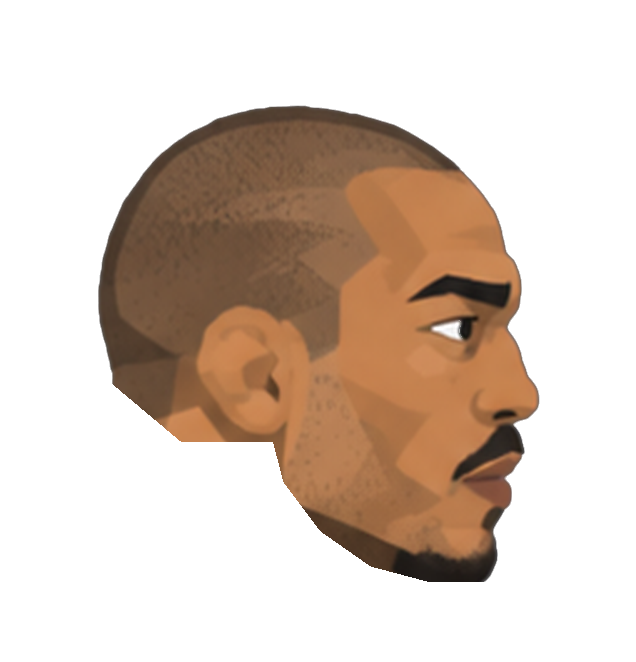
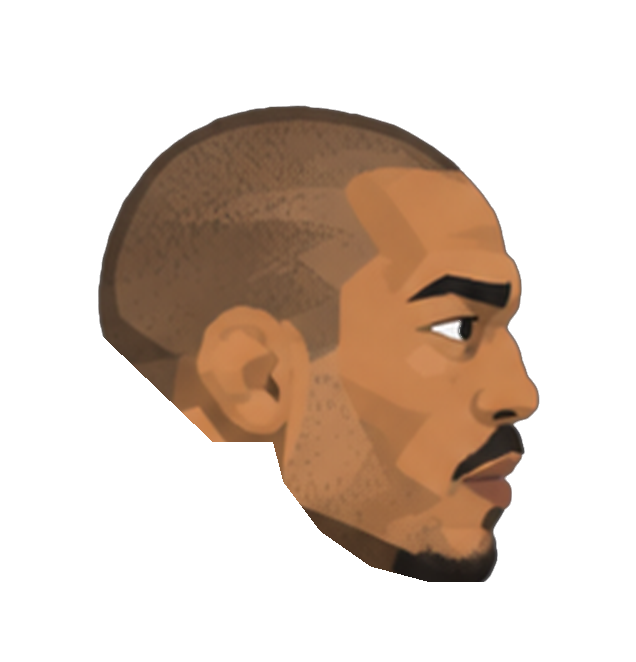
Referee and coaches use the fighter head+nape-bridge model, nape tab trimmed on all heads, neck region filled
Claude-Session: https://claude.ai/code/session_01BMyqTur5CGsYQhULeeiyXv

Changed region(s): [[0.1494, 0.5136, 0.3286, 0.6647]]

diff --git a/cage/src/Cutout.js b/cage/src/Cutout.js
@@ -12,7 +12,7 @@ const CO=window.CUTOUT={on:!/[?&]cutout=0/.test(location.search),sets:{}};
 const clamp=(v,a,b)=>v<a?a:v>b?b:v;
 /* faces for the referee and the coaches (character sheet): rigid head + neck down to the collar */
 const REFS={ref:[['ref1','#e9b28b'],['ref2','#7a5236'],['ref3','#d9a07a'],['ref4','#dca883']],coach:[['coach3','#8a5a3c'],['coach5','#e0b090'],['coach7','#e3a982']]};
-CO.pickRef=(lk,kind,idx)=>{const L=REFS[kind];if(!L)return;const c=L[idx!=null?idx%L.length:Math.floor(Math.random()*L.length)];lk.cutout=c[0];lk.skin=c[1];lk.headK=.126;lk.headDown=-.005};
+CO.pickRef=(lk,kind,idx)=>{const L=REFS[kind];if(!L)return;const c=L[idx!=null?idx%L.length:Math.floor(Math.random()*L.length)];lk.cutout=c[0];lk.skin=c[1];lk.headK=.132;lk.headDown=-.005};
 for(const k in REFS)REFS[k].forEach(c=>{try{load(c[0])}catch(e){}});
 CO.variants=n=>{const c=CURATED[n];return c&&c.variants||null};CO.getVar=n=>{try{const v=+localStorage.getItem('cl_skin_'+n)||0;const c=CURATED[n];return c&&c.variants&&v<c.variants.length?v:0}catch(e){return 0}};CO.setVar=(n,v)=>{try{localStorage.setItem('cl_skin_'+n,String(v))}catch(e){}};
 const CURATED={'Jon Jones':{cutout:'jones',skin:'#6b4a34',shorts:'#232326',glove:'#17171a',headK:0.138,headDown:-.005},'Anderson Silva':{cutout:'silva',skin:'#8d5c34',shorts:'#1b1b1e',glove:'#17171a',headK:0.138,headDown:-.005},
@@ -24,7 +24,7 @@ function load(name){let S=CO.sets[name];if(S)return S;S=CO.sets[name]={ready:fal
   fetch('assets/cutout/'+name+'/parts.json').then(r=>r.json()).then(m=>{S.meta=m;const im=new Image();im.onload=()=>{S.img=im;S.ready=true};im.src='assets/cutout/'+name+'/'+m.image}).catch(()=>{S.failed=true});
   /* the close-up of the head with neck and shoulder slope (used for the face when present) */
   S.pending=1;fetch('assets/cutout/'+name+'/head2.json').then(r=>r.json()).then(m=>{const base='assets/cutout/'+name+'/',im=new Image(),n=m.neck?new Image():null;const ld=i=>new Promise(res=>{i.onload=()=>{(i.decode?i.decode():Promise.resolve()).then(res,res)};i.onerror=res;});const ps=[ld(im)];im.src=base+m.image;if(n){ps.push(ld(n));n.src=base+m.neck}
-    Promise.all(ps).then(()=>{try{const cv=document.createElement('canvas');cv.width=im.width;cv.height=im.height;const g=cv.getContext('2d');g.drawImage(im,0,0);const D=g.getImageData(0,0,cv.width,cv.height).data,W0=cv.width,edge=(y,fromRight)=>{let x=fromRight?W0-1:0;const st=fromRight?-1:1;for(;x>=0&&x<W0;x+=st)if(D[(y*W0+x)*4+3]>90)return x;return -1};const nt=m.neckTop;m.anc={back:[edge(nt-14,0),nt-14],low:[edge(nt+8,0),nt+8],jaw:[edge(nt+44,0),nt+44],jawR:[edge(nt+44,1),nt+44]}}catch(e){}
+    Promise.all(ps).then(()=>{try{const cv=document.createElement('canvas');cv.width=im.width;cv.height=im.height;const g=cv.getContext('2d');g.drawImage(im,0,0);const D=g.getImageData(0,0,cv.width,cv.height).data,W0=cv.width,edge=(y,fromRight)=>{let x=fromRight?W0-1:0;const st=fromRight?-1:1;for(;x>=0&&x<W0;x+=st)if(D[(y*W0+x)*4+3]>90)return x;return -1};const nt=m.neckTop!=null?m.neckTop:Math.round(m.p0[1]+m.headH*.5-60);m.anc={back:[edge(nt-58,0),nt-58],low:[edge(nt+8,0),nt+8],jaw:[edge(nt+44,0),nt+44],jawR:[edge(nt+44,1),nt+44]}}catch(e){}
     /* published only when head AND neck are decoded, so the face never appears piece by piece */const h2={img:im,headH:m.headH,m,meta:{parts:{head2:{x:0,y:0,w:m.w,h:m.h,p0:m.p0,p1:m.p1}}}};if(n)h2.neck=n;S.h2=h2;try{if(window.FACEFX){FACEFX.skinMask(im);FACEFX.layer(im.width,im.height)}}catch(e){}/* warm the caches */S.pending=0;CO.warm=(CO.warm||0)+1})}).catch(()=>{S.pending=0});return S}
 CO.body=false;
 /* the neck as a bending strip: horizontal slices from the skull down to the shoulders, each turned by an angle between the head's and the trunk's, so the back of the neck folds when the head tips forward or back */
@@ -48,7 +48,7 @@ function neck(ctx,S2,hd,nk,B,d,ku,H,skin){const m=S2.m,P=S2.meta.parts.head2,p0=
   if(L.length>2){ctx.fillStyle=skin?shade(skin,-.02):'#6b4a34';ctx.beginPath();L.forEach((q,i)=>i?ctx.lineTo(q.x,q.y):ctx.moveTo(q.x,q.y));R.slice().reverse().forEach(q=>ctx.lineTo(q.x,q.y));ctx.closePath();ctx.fill()}
   for(let i=0;i<N;i++){const ya=y0+i*step,yb=ya+step,yc=(ya+yb)/2,t=(i+.5)/N,sm=t*t*(3-2*t),xc=qb[0];const A=wh(xc,yc),Bt=wt(xc,yc);const px=A.x+(Bt.x-A.x)*sm,py=A.y+(Bt.y-A.y)*sm,al=aH+da*sm;
     const ex=1.5;ctx.save();ctx.translate(px,py);ctx.rotate(al);ctx.scale(mm*ku,-ku);ctx.drawImage(S2.neck,0,ya-ex,W,step+2*ex,-xc,(ya-ex)-yc,W,step+2*ex);ctx.restore()}}
-CO.head=function(ctx,hd,nk,H,B,d){const lk=B.look;if(!CO.on||!lk||!lk.cutout)return false;const S=load(lk.cutout);if(S.h2){/* anchored on the head centre, hanging down along the neck line */ctx.imageSmoothingEnabled=true;ctx.imageSmoothingQuality='high';const hsz=1;/* the head size does not change with the weight class */const ku=H*(lk.headK||.145)*hsz/S.h2.headH;const Lh=Math.hypot(hd.x-nk.x,hd.y-nk.y)||1,dn=H*(lk.headDown!=null?lk.headDown:-.005);const hd2={x:hd.x-(hd.x-nk.x)/Lh*dn,y:hd.y-(hd.y-nk.y)/Lh*dn};/* head a little lower */bridge(ctx,S.h2,hd2,nk,B,d,ku,H,lk.skin);if(S.h2.m.nofx){/* referee / coach: a skin neck joins the rigid head to the shoulders */const a={x:hd2.x+(nk.x-hd2.x)*.35,y:hd2.y+(nk.y-hd2.y)*.35},b={x:nk.x+(nk.x-hd2.x)*.12,y:nk.y+(nk.y-hd2.y)*.12};ctx.save();ctx.strokeStyle=lk.skin;ctx.lineWidth=.062*H;ctx.lineCap='butt';ctx.beginPath();ctx.moveTo(a.x,a.y);ctx.lineTo(b.x,b.y);ctx.stroke();ctx.restore()}put(ctx,S.h2,'head2',hd2,nk,d,ku,1,1,true,c=>{if(!window.FACEFX)return;{const q=S.h2.m.fx;if(S.h2.m.nofx||(q&&q.blinkOnly)){if(q&&q.blinkOnly)FACEFX.lid(c,q.G,FACEFX.blink(B),q.lid);return}}const fx=S.h2.m.fx,G=fx?fx.G:{eye:[395,222],brow:[400,190],brow2:[352,205],nose:[470,268],cheek:[372,292],fore:[360,110],lip:[432,358],u:44,down:1},mo=fx?fx.mouth:[452,352,40,18];FACEFX.mouth(c,[mo[0],mo[1]],mo[2],mo[3],1,B);FACEFX.lid(c,G,FACEFX.blink(B),fx?fx.lid:'#745239');/* bruises and blood: drawn on a layer cut to the face's skin, in the sprite's own (head-turning) space */if(FACEFX.hasWounds(B)){const mk=FACEFX.skinMask(S.h2.img);if(mk){const ly=FACEFX.layer(S.h2.img.width,S.h2.img.height),g=ly.getContext('2d');g.setTransform(1,0,0,1,0,0);g.globalCompositeOperation='source-over';g.clearRect(0,0,ly.width,ly.height);FACEFX.wounds(g,B,G,{cuts:true});g.globalCompositeOperation='destination-in';g.drawImage(mk,0,0);g.globalCompositeOperation='source-over';c.drawImage(ly,0,0)}}});return true}if(!S.ready)return false;const ku=H*1.03/(S.meta.h*.935)*1.08;ctx.imageSmoothingEnabled=true;ctx.imageSmoothingQuality='high';/* the neck: a solid column from the shoulders up under the jaw (the picture's head part carries only a stub of it) */
+CO.head=function(ctx,hd,nk,H,B,d){const lk=B.look;if(!CO.on||!lk||!lk.cutout)return false;const S=load(lk.cutout);if(S.h2){/* anchored on the head centre, hanging down along the neck line */ctx.imageSmoothingEnabled=true;ctx.imageSmoothingQuality='high';const hsz=1;/* the head size does not change with the weight class */const ku=H*(lk.headK||.145)*hsz/S.h2.headH;const Lh=Math.hypot(hd.x-nk.x,hd.y-nk.y)||1,dn=H*(lk.headDown!=null?lk.headDown:-.005);const hd2={x:hd.x-(hd.x-nk.x)/Lh*dn,y:hd.y-(hd.y-nk.y)/Lh*dn};/* head a little lower */bridge(ctx,S.h2,hd2,nk,B,d,ku,H,lk.skin);put(ctx,S.h2,'head2',hd2,nk,d,ku,1,1,true,c=>{if(!window.FACEFX)return;{const q=S.h2.m.fx;if(S.h2.m.nofx||(q&&q.blinkOnly)){if(q&&q.blinkOnly)FACEFX.lid(c,q.G,FACEFX.blink(B),q.lid);return}}const fx=S.h2.m.fx,G=fx?fx.G:{eye:[395,222],brow:[400,190],brow2:[352,205],nose:[470,268],cheek:[372,292],fore:[360,110],lip:[432,358],u:44,down:1},mo=fx?fx.mouth:[452,352,40,18];FACEFX.mouth(c,[mo[0],mo[1]],mo[2],mo[3],1,B);FACEFX.lid(c,G,FACEFX.blink(B),fx?fx.lid:'#745239');/* bruises and blood: drawn on a layer cut to the face's skin, in the sprite's own (head-turning) space */if(FACEFX.hasWounds(B)){const mk=FACEFX.skinMask(S.h2.img);if(mk){const ly=FACEFX.layer(S.h2.img.width,S.h2.img.height),g=ly.getContext('2d');g.setTransform(1,0,0,1,0,0);g.globalCompositeOperation='source-over';g.clearRect(0,0,ly.width,ly.height);FACEFX.wounds(g,B,G,{cuts:true});g.globalCompositeOperation='destination-in';g.drawImage(mk,0,0);g.globalCompositeOperation='source-over';c.drawImage(ly,0,0)}}});return true}if(!S.ready)return false;const ku=H*1.03/(S.meta.h*.935)*1.08;ctx.imageSmoothingEnabled=true;ctx.imageSmoothingQuality='high';/* the neck: a solid column from the shoulders up under the jaw (the picture's head part carries only a stub of it) */
   {const L=Math.hypot(hd.x-nk.x,hd.y-nk.y)||1e-5,ux=(hd.x-nk.x)/L,uy=(hd.y-nk.y)/L;let nx=-uy,ny=ux;if(nx*d<0){nx=-nx;ny=-ny}const skin=lk.skin||'#7d5033';
    const Q=(aa,bb)=>({x:nk.x+ux*aa+nx*bb,y:nk.y+uy*aa+ny*bb});
    const poly=[Q(-.05*H,.05*H),Q(.04*H,.042*H),Q(L*.9,.036*H),Q(L*1.0,-.04*H),Q(.03*H,-.075*H),Q(-.05*H,-.1*H)];

diff --git a/cage/src/FlatStyle.js b/cage/src/FlatStyle.js
@@ -79,11 +79,11 @@ function layTorso(ctx,pt,base,S1){const img=bakeTex('torso',base);if(!img._img)r
 
 /* ---------- torso built from the muscle-group map (side view, chest to the right): silhouette + 7 regions, coordinates of the map image ---------- */
 const TMAP={
- L:[[360,95],[358,150],[330,180],[290,235],[262,285],[240,350],[236,420],[255,480],[272,520],[295,560],[300,600],[312,650],[340,720],[370,790],[392,850],[408,910],[418,960],[412,1010],[385,1040],[355,1090],[350,1112],[400,1150],[500,1215],[600,1275],[700,1325],[762,1342]],
- R:[[770,1345],[790,1290],[815,1250],[828,1200],[835,1130],[830,1050],[835,980],[822,900],[828,830],[812,780],[805,700],[795,625],[800,560],[790,490],[765,415],[730,350],[680,305],[620,272],[598,275],[595,200],[587,100]],
+ L:[[408,100],[380,150],[340,185],[290,235],[262,285],[240,350],[236,420],[255,480],[272,520],[295,560],[300,600],[312,650],[340,720],[370,790],[392,850],[408,910],[418,960],[412,1010],[385,1040],[355,1090],[350,1112],[400,1150],[500,1215],[600,1275],[700,1325],[762,1342]],
+ R:[[770,1345],[790,1290],[815,1250],[828,1200],[835,1130],[830,1050],[835,980],[822,900],[828,830],[812,780],[805,700],[795,625],[800,560],[790,490],[765,415],[730,350],[680,305],[620,272],[598,275],[592,200],[576,100]],
  reg:{
-  neck:[.0,[[360,95],[587,100],[597,275],[520,262],[484,245],[470,190],[440,135],[400,125],[358,150]]],
-  back:[-.075,[[358,150],[330,180],[290,235],[262,285],[240,350],[236,420],[255,480],[272,520],[295,560],[300,600],[312,650],[340,720],[370,790],[392,850],[408,910],[418,960],[520,898],[470,820],[448,735],[470,690],[490,650],[400,640],[375,620],[368,560],[358,520],[320,420],[335,335],[375,290],[430,262],[484,245],[470,190],[440,135],[400,125]]],
+  neck:[.0,[[408,100],[576,100],[597,275],[520,262],[484,245],[470,190],[440,135],[420,125],[380,150]]],
+  back:[-.075,[[380,150],[340,185],[290,235],[262,285],[240,350],[236,420],[255,480],[272,520],[295,560],[300,600],[312,650],[340,720],[370,790],[392,850],[408,910],[418,960],[520,898],[470,820],[448,735],[470,690],[490,650],[400,640],[375,620],[368,560],[358,520],[320,420],[335,335],[375,290],[430,262],[484,245],[470,190],[440,135],[400,125]]],
   delt:[.05,[[480,250],[520,265],[570,300],[610,350],[625,420],[618,500],[605,550],[612,590],[580,625],[520,640],[490,650],[400,640],[375,620],[368,560],[358,520],[320,420],[335,335],[375,290],[430,262]]],
   thorax:[.085,[[520,262],[598,275],[620,272],[680,305],[730,350],[765,415],[790,490],[800,560],[795,625],[740,640],[720,650],[610,620],[605,550],[618,500],[625,420],[610,350],[570,300]]],
   serr:[-.05,[[490,650],[580,625],[612,617],[720,650],[700,720],[685,820],[675,930],[600,920],[520,898],[470,820],[448,735],[470,690]]],
